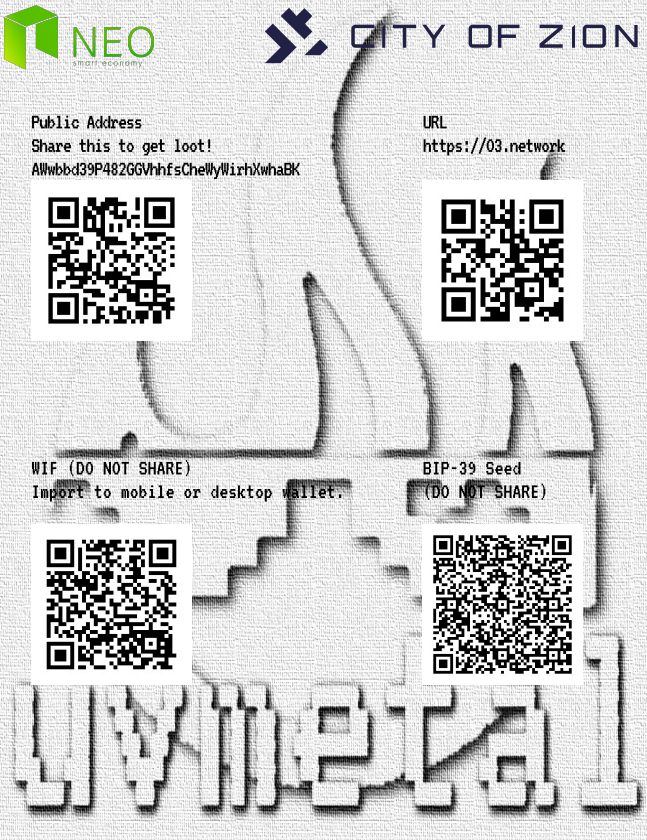
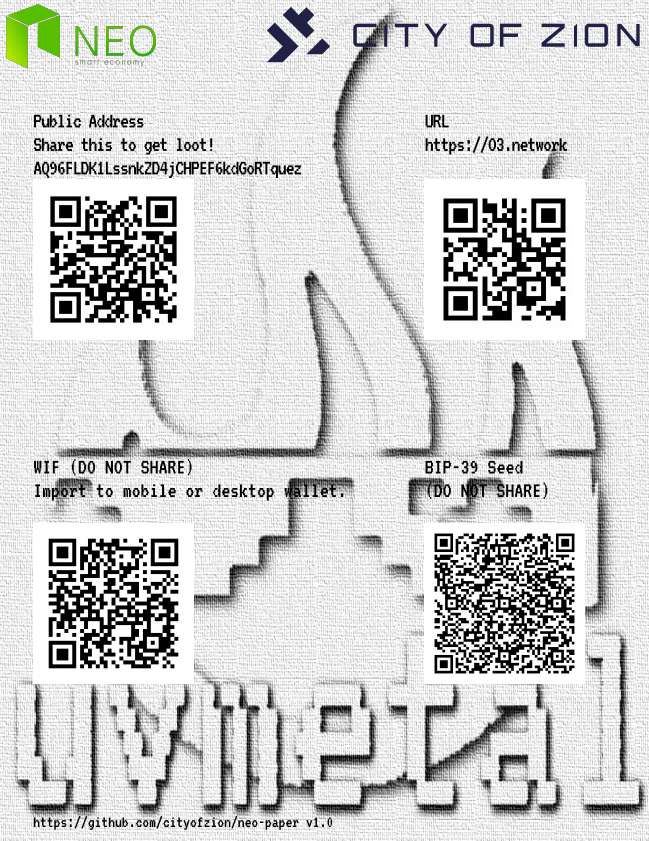
1.0.0

diff --git a/template.html b/template.html
@@ -40,7 +40,7 @@
       </div>
     <div class="" style="position:absolute;z-index:1;left: 400px;top: 40px;width:250px;height:150px;font-size: 21px;letter-spacing: -1;">
         <br><br><br>
-        <div style="">
+        <div style="word-wrap:break-word;max-width:200px;width:200px">
           URL<br>
           **URL** <br>
           <br>
@@ -73,5 +73,8 @@
             style="width:150;height:150px"
         />
     </div>
+    <div class="" style="position:absolute;left:33px;top:765px;width:350px;height:250px;" >
+      https://github.com/cityofzion/neo-paper v1.0
+  </div>
 </body>
 </html>

diff --git a/README.md b/README.md
@@ -1,6 +1,6 @@
 # Overview
 
-`neo-paper v0.9.0`
+`neo-paper v1.0.0`
 
 This is a paper wallet for the Neo Smart Economy. neo-paper is the introductory work for neo-burner.
 
@@ -62,8 +62,6 @@ node accounts.js [n]
 This will output an `accounts.json` file with the JSON format: `[{address,pk,_address,_privateKey,_publicKey,_scriptHash, _WIF}]`
 
 The format maintains compatibility with AG's work to ease integration and includes basic neon-js style for forward compatibility with Neo Smart Economy.
-
-TODO: add encrypted key support. This would require a command line option to generate an encrypted private key.
 
 # Edit Design and Copy
 
@@ -128,7 +126,7 @@ This creates a pdf of qr codes containing all the wallet information for an acco
 node qrpdf.js <public address> <private key> <URL> <WIF>
 ```
 
-# Air Dropping
+# Air Drop
 
 Coming soon!
 
